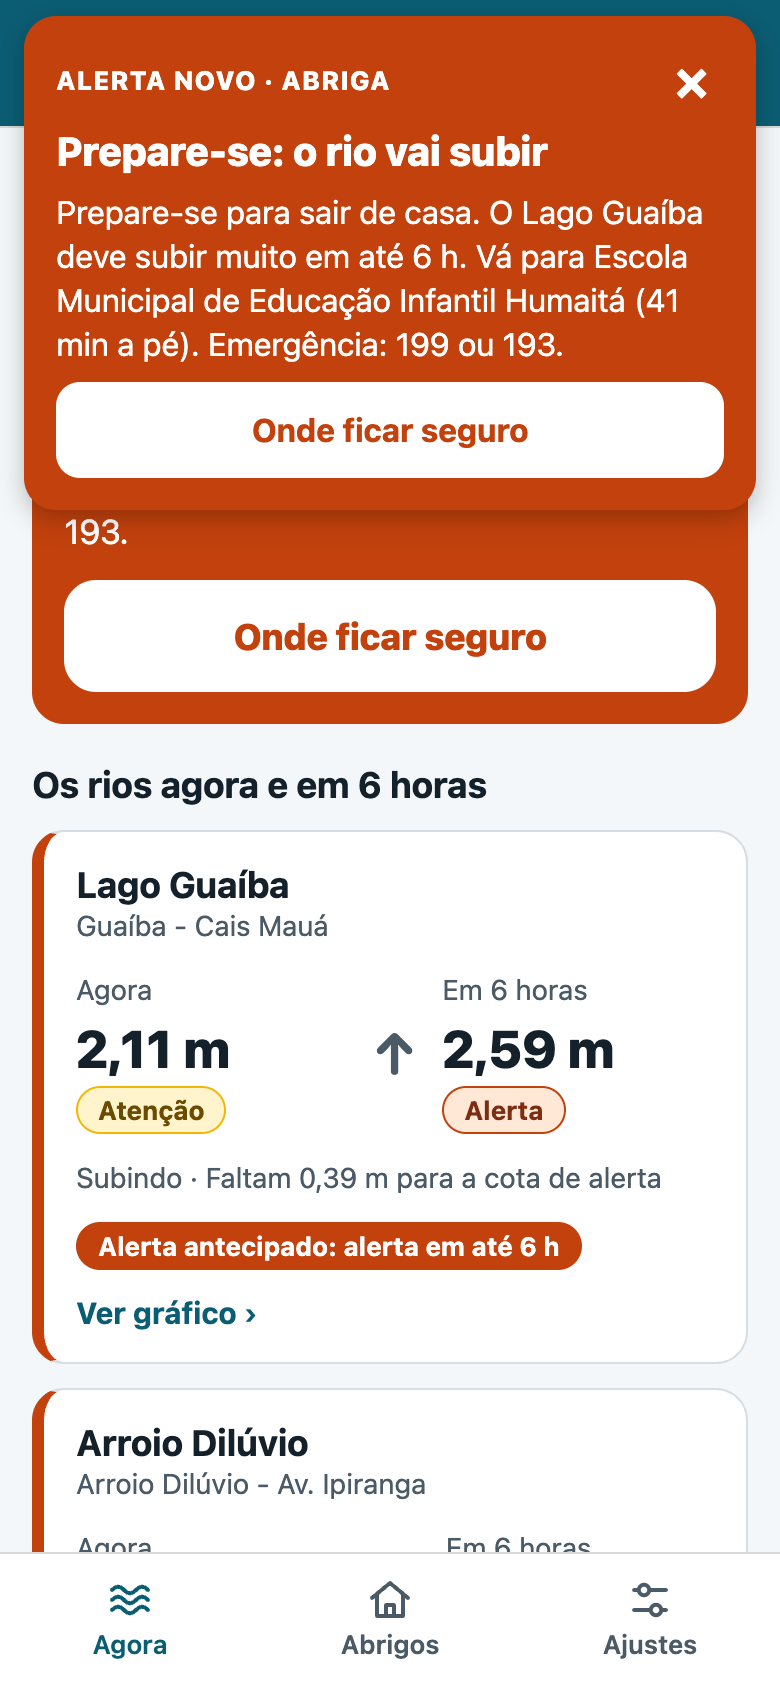
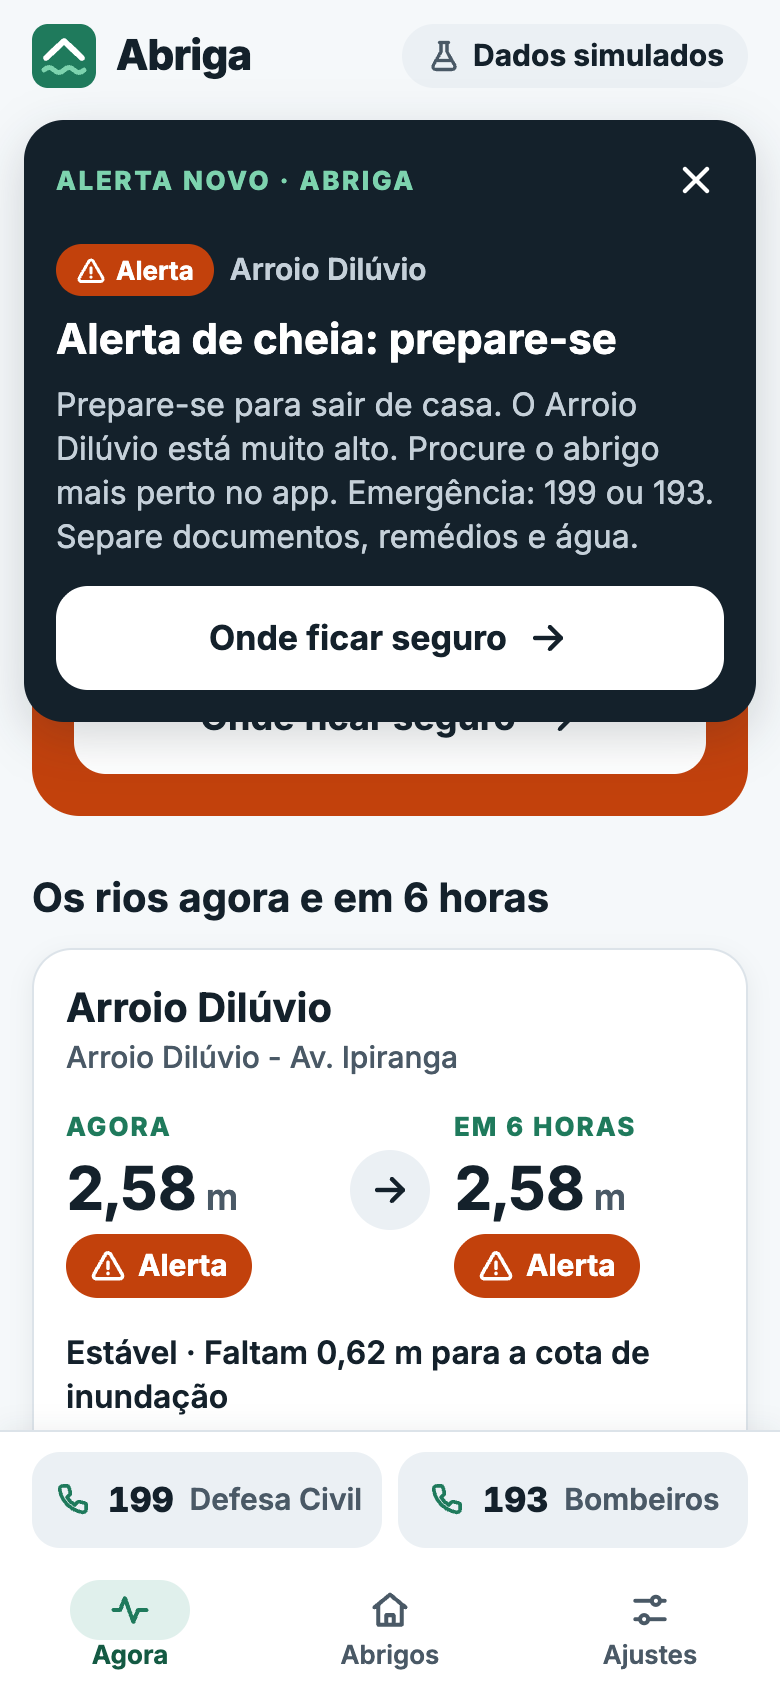
Refaz os prints do app com o visual novo
Os 10 prints de docs/evidencias/app-*.png foram tirados de novo com a
stack no ar (API real, cheia simulada do ciclo), em 390 × 844 com escala
2 (PNG de 780 × 1688, como antes), seguindo o roteiro da demonstração:
Navegantes, 4 pessoas, GPS no centro de Navegantes e a API fora do ar
simulada no proxy (502, como o nginx com a API parada), sem parar nem
reiniciar nenhum container.

Nesta volta da cheia, o Arroio Dilúvio entrou em alerta antes; a tela
Agora mostra esse alerta, e o selo de alerta antecipado aparece no print
do rio. A descrição do app-agora.png no README do app e a evidência do
CT-62 no plano de testes foram ajustadas para isso.

diff --git a/area4-devops/plano-de-testes.md b/area4-devops/plano-de-testes.md
@@ -108,7 +108,7 @@ Execução em 09/11/2026 com o simulador (`docker compose restart simulador`), o
 | CT-59 | API ou banco fora do ar → aviso amigável, sem tela branca | Unidade + manual | 503, 502, sem rede e tempo esgotado; `docker compose stop api` com o app aberto, depois `start` | Mensagem simples; últimos dados com a hora; "Tentar de novo" quando não há dado; o app volta sozinho | ✅ | `cliente.test.ts`, `EstadoDaConsulta.test.tsx`, `telas-agora-rio.test.tsx`; print `app-erro.png` |
 | CT-60 | Leitura atrasada e dados incompletos sinalizados | Unidade | Previsão com `leitura_velha` e `dados_incompletos` | Selos "Leitura atrasada" e "Dados incompletos" no cartão do rio | ✅ | `telas-agora-rio.test.tsx` |
 | CT-61 | Alerta novo avisa uma vez só | Unidade | Mesmo alerta em várias leituras; escalar; fechar e abrir de novo; dois alertas na mesma leitura; alerta já aberto ao abrir o app; avisos desligados; pessoa já na tela de abrigos; toque na notificação | 1 aviso por alerta; escalar avisa de novo; dois juntos: duas notificações e a faixa do mais grave cita o outro rio; o que já estava aberto e os avisos desligados não avisam; na tela de abrigos, só a notificação; o toque leva à tela e fecha a faixa | ✅ | `alertas.test.ts`, `aviso-de-alerta.test.tsx` |
-| CT-62 | Alerta antecipado aparece no app antes da cota | Manual | `docker compose restart simulador` com o app aberto; comparar com o nível do Guaíba em `/previsao` | Selo "Alerta antecipado" e aviso antes de o rio passar da cota | ✅ Atenção 50 s antes (≈ 8 h simuladas), alerta 31 s antes (≈ 5 h) | — (prints `app-aviso.png`, `app-agora.png`) |
+| CT-62 | Alerta antecipado aparece no app antes da cota | Manual | `docker compose restart simulador` com o app aberto; comparar com o nível do Guaíba em `/previsao` | Selo "Alerta antecipado" e aviso antes de o rio passar da cota | ✅ Atenção 50 s antes (≈ 8 h simuladas), alerta 31 s antes (≈ 5 h) | — (prints `app-aviso.png`, `app-rio.png`) |
 | CT-63 | Fluxo completo: rio sobe → aviso → abrigo → Como chegar | Manual + unidade | Com a faixa de alerta na tela, tocar em "Onde ficar seguro", no 1º recomendado e em "Como chegar" | Recomendados do bairro salvo, detalhe do abrigo e mapa a pé só com o destino | ✅ | `aviso-de-alerta.test.tsx`, `telas-abrigos.test.tsx`; prints `app-aviso.png`, `app-abrigos.png`, `app-abrigo.png` |
 | CT-64 | Funciona em largura de celular | Manual | Abrir as 5 telas em 390 × 844 | Nada cortado e sem rolagem lateral; botões com 48 px ou mais de altura | ✅ | — (prints `app-*.png`) |
 | CT-65 | Lint, tipos e testes do app no CI | CI | Push na `main` | Job `app` verde, com o relatório `relatorio-app` | ✅ | job `app` em [`ci.yml`](../.github/workflows/ci.yml) |

diff --git a/area3-mvp/app/README.md b/area3-mvp/app/README.md
@@ -14,7 +14,7 @@ e o `docker compose up` usam a versão web, em largura de celular.
 
 | Agora (na cheia) | Rio (gráfico) | Minha localização | Sem servidor |
 |---|---|---|---|
-| <img src="../../docs/evidencias/app-agora.png" width="200" alt="Tela Agora com o alerta antecipado"> | <img src="../../docs/evidencias/app-rio.png" width="200" alt="Gráfico do Guaíba com as cotas e a previsão"> | <img src="../../docs/evidencias/app-localizacao.png" width="200" alt="Abrigos calculados pela localização, no aparelho"> | <img src="../../docs/evidencias/app-erro.png" width="200" alt="Aviso amigável com a API fora do ar"> |
+| <img src="../../docs/evidencias/app-agora.png" width="200" alt="Tela Agora na cheia, com o Arroio Dilúvio em alerta"> | <img src="../../docs/evidencias/app-rio.png" width="200" alt="Gráfico do Guaíba com as cotas, a previsão e o selo de alerta antecipado"> | <img src="../../docs/evidencias/app-localizacao.png" width="200" alt="Abrigos calculados pela localização, no aparelho"> | <img src="../../docs/evidencias/app-erro.png" width="200" alt="Aviso amigável com a API fora do ar"> |
 
 | Evitados, com o motivo | Ajustes |
 |---|---|
